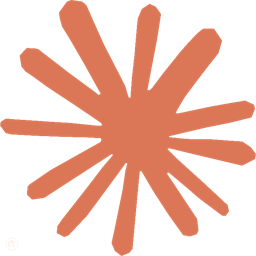
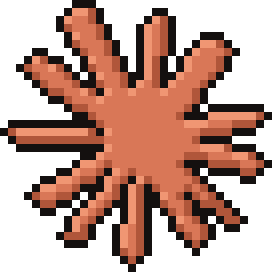
Tumble Crown b139: 인트로 Claude 로고 교체 (#1116)

diff --git a/prototypes/tumblecrown/index.html b/prototypes/tumblecrown/index.html
@@ -12,7 +12,7 @@
 <link rel="preconnect" href="https://fonts.googleapis.com"><link rel="preconnect" href="https://fonts.gstatic.com" crossorigin>
 
 <!-- 새 빌드마다 아래 ?v= 숫자를 BUILD와 같게 올려요 (브라우저가 옛 파일을 쓰지 않게) -->
-<script type="importmap">{"imports":{"three":"https://cdn.jsdelivr.net/npm/three@0.160.0/build/three.module.js","three/addons/":"https://cdn.jsdelivr.net/npm/three@0.160.0/examples/jsm/","./js/data.js":"./js/data.js?v=138","./js/main.js":"./js/main.js?v=138","./js/map.js":"./js/map.js?v=138","./js/music.js":"./js/music.js?v=138","./js/render.js":"./js/render.js?v=138","./js/sfx.js":"./js/sfx.js?v=138","./js/sim.js":"./js/sim.js?v=138","./js/tr.js":"./js/tr.js?v=138"}}</script>
+<script type="importmap">{"imports":{"three":"https://cdn.jsdelivr.net/npm/three@0.160.0/build/three.module.js","three/addons/":"https://cdn.jsdelivr.net/npm/three@0.160.0/examples/jsm/","./js/data.js":"./js/data.js?v=139","./js/main.js":"./js/main.js?v=139","./js/map.js":"./js/map.js?v=139","./js/music.js":"./js/music.js?v=139","./js/render.js":"./js/render.js?v=139","./js/sfx.js":"./js/sfx.js?v=139","./js/sim.js":"./js/sim.js?v=139","./js/tr.js":"./js/tr.js?v=139"}}</script>
 <script src="../../ff-presence.js" async></script>
 <script src="https://cdn.jsdelivr.net/npm/peerjs@1.5.4/dist/peerjs.min.js"></script>
 <script src="https://frenchfries777mc.github.io/games/ff-lang.js"></script>
@@ -245,7 +245,7 @@ body.touch #exitBtn{top:auto;bottom:auto}
 </head>
 <body>
 <canvas id="gl"></canvas>
-<div id="tcIntro"><video id="tcVid" muted loop playsinline autoplay preload="auto" disablepictureinpicture><source src="intro-battle.mp4" type="video/mp4"></video><div class="sc s1"><div class="sm">Made by</div><div class="bg">Frenchfries777</div></div><div class="sc s2"><div class="sm">With</div><div class="bg"><img alt="" src="claude.png">Claude AI</div></div></div>
+<div id="tcIntro"><video id="tcVid" muted loop playsinline autoplay preload="auto" disablepictureinpicture><source src="intro-battle.mp4" type="video/mp4"></video><div class="sc s1"><div class="sm">Made by</div><div class="bg">Frenchfries777</div></div><div class="sc s2"><div class="sm">With</div><div class="bg"><img alt="" src="claude.png" style="image-rendering:pixelated">Claude AI</div></div></div>
 <canvas id="ov"></canvas><div id="storm"></div>
 
 <!-- 로비 -->
@@ -354,7 +354,7 @@ body.touch #exitBtn{top:auto;bottom:auto}
 <div id="touch"><div id="joy"><div id="joyBase"><div id="joyKnob"></div></div></div>
   <div id="tbtns"><button id="tA"><span>공격</span></button><button id="tQ"><i class="cd"></i><span>Q</span></button><button id="tE"><i class="cd"></i><span>E</span></button><button id="tR"><i class="cd"></i><span>R</span></button><button id="tRoll"><i class="cd"></i><span>구르기</span></button><button id="tF"><span>귀환</span></button></div>
 </div>
-<script type="module" src="js/main.js?v=138"></script>
+<script type="module" src="js/main.js?v=139"></script>
 <div id="findBlock" style="position:fixed;inset:0;z-index:60;display:none;cursor:wait"></div>
 </body>
 </html>
